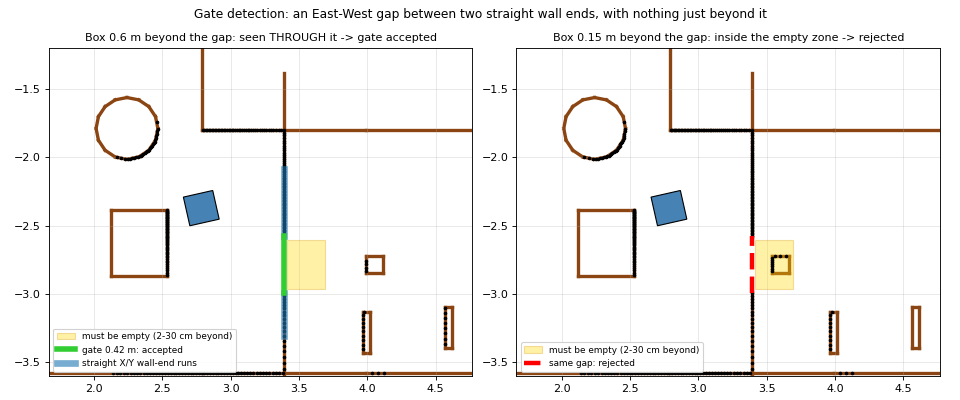
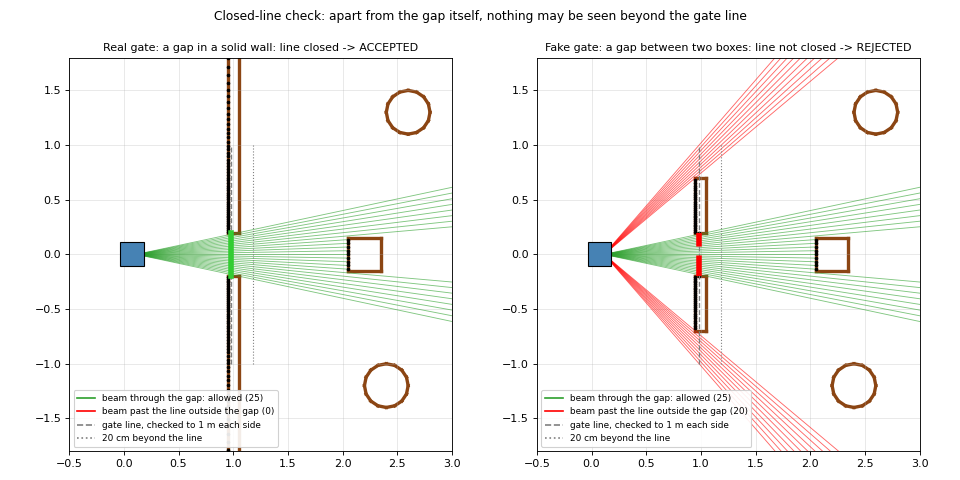
final-cleaning up...

diff --git a/media/fp/make_feature_media.py b/media/fp/make_feature_media.py
@@ -330,69 +330,65 @@ if wanted("heading_layers"):
     ax.text(1.0, 1.35, "north ->", fontsize=9)
     save_png(fig, "heading_layers")
 
-# ---------------------------------------------------------------- 8. gate detection (+ "empty beyond")
+# ---------------------------------------------------------------- 8. gate detection: the closed-line check
 if wanted("gate_detection"):
-    scn = pt.randomised_fp_scenario(2)
-    pt.SWING = True
-    frames = pt.simulate(scn)
-    f = next(f for f in frames if f["corridor"].get("gap_phase") == "APPROACH")
-    x, y, h = f["x"], f["y"], f["h"]
-    base_segs = scn["segments_at"](f["t"])
-    th = h
-    axes = (np.array((math.cos(th), -math.sin(th))), np.array((math.sin(th), math.cos(th))))
-
-    def gate_scan(segs):
-        pts, _ = oc.scan_to_robot_points(pt.raycast_scan(segs, x, y, h, 360))
-        return pts, oc.detect_gaps(pts, math.degrees(h), oc.NORTH_DEG)
-
-    # The real gap (no extra box) gives where "beyond" is
-    _, gaps0 = gate_scan(base_segs)
-    g0 = gaps0[0]
-    ctr_w = to_world([g0["center"]], x, y, h)[0]
-    nrm_w = to_world([g0["center"] + g0["normal"]], x, y, h)[0] - ctr_w
-    tan_w = np.array((-nrm_w[1], nrm_w[0]))
-    a_w, b_w = to_world([g0["a"], g0["b"]], x, y, h)
-
-    fig, axs = plt.subplots(1, 2, figsize=(12, 5.0), dpi=DPI)
+    room = pt.box(1.0, 0.0, 6.0, 6.0)
+    behind = pt.box(2.2, 0.0, 0.3, 0.3) + pt.circle(2.6, 1.3, 0.2) + pt.circle(2.4, -1.2, 0.2)
+    wall = [((0.95, 0.2), (0.95, 3.0)), ((0.95, -0.2), (0.95, -3.0)), ((1.05, 0.2), (1.05, 3.0)), ((1.05, -0.2), (1.05, -3.0)),
+            ((0.95, 0.2), (1.05, 0.2)), ((0.95, -0.2), (1.05, -0.2))]
+    boxes = pt.box(1.0, 0.45, 0.1, 0.5) + pt.box(1.0, -0.45, 0.1, 0.5)
+    lidar = np.array((oc.LASER_X_OFFSET, 0.0))
+    fig, axs = plt.subplots(1, 2, figsize=(12, 6.0), dpi=DPI)
     fig.subplots_adjust(left=0.05, right=0.98, top=0.88, bottom=0.06, wspace=0.1)
-    for ax, depth_box, title in ((axs[0], 0.60, "Box 0.6 m beyond the gap: seen THROUGH it -> gate accepted"),
-                                 (axs[1], 0.15, "Box 0.15 m beyond the gap: inside the empty zone -> rejected")):
-        bc = ctr_w + nrm_w * (depth_box + 0.06)
-        segs = base_segs + pt.box(bc[0], bc[1], 0.12, 0.12)
-        pts, gaps = gate_scan(segs)
+    for ax, segs, title in ((axs[0], room + behind + wall, "Real gate: a gap in a solid wall"),
+                            (axs[1], room + behind + boxes, "Fake gate: a gap between two boxes")):
+        pts, _ = oc.scan_to_robot_points(pt.raycast_scan(segs, 0.0, 0.0, 0.0, 360))
+        found = oc.detect_gaps(pts, 0.0, oc.NORTH_DEG)
+        keep = oc._line_closed
+        oc._line_closed = lambda *a: True
+        candidate = oc.detect_gaps(pts, 0.0, oc.NORTH_DEG)[0]  # what the other checks accept
+        oc._line_closed = keep
+        a, b, ctr = candidate["a"], candidate["b"], candidate["center"]
+        along = (b - a) / np.hypot(*(b - a))
+        normal = np.array((-along[1], along[0]))
+        if (lidar - ctr) @ normal > 0:
+            normal = -normal
         for (px, py), (qx, qy) in segs:
             ax.plot([px, qx], [py, qy], color="saddlebrown", lw=3, zorder=1)
-        wp = to_world(pts, x, y, h)
-        ax.scatter(wp[:, 0], wp[:, 1], s=5, c="k", zorder=3)
-        # The zone that must be empty: between the edges (3 cm in), 2-30 cm beyond the gap line
-        half = g0["width"] / 2.0 - 0.03
-        zone = [ctr_w + tan_w * u + nrm_w * v for u, v in ((-half, 0.02), (half, 0.02), (half, oc.GAP_OPEN_DEPTH), (-half, oc.GAP_OPEN_DEPTH))]
-        ax.add_patch(Polygon(zone, closed=True, fc="gold", ec="goldenrod", alpha=0.35, zorder=2,
-                             label=f"must be empty (2-{oc.GAP_OPEN_DEPTH * 100:.0f} cm beyond)"))
-        found = [g for g in gaps if np.hypot(*(to_world([g["center"]], x, y, h)[0] - ctr_w)) < 0.2]
-        if found:
-            g = found[0]
-            near = oc._bearing_sorted(pts, oc.GAP_DETECT_RANGE)
-            nn = len(near)
-            ext = np.concatenate((near, near, near))
-            ia = next(k for k in range(nn, 2 * nn) if np.allclose(ext[k], g["a"]))
-            jb = next(k for k in range(ia + 1, 3 * nn) if np.allclose(ext[k], g["b"]))
-            for run in (oc._axis_wall_end(ext, ia, -1, axes), oc._axis_wall_end(ext, jb, +1, axes)):
-                rw = to_world(run, x, y, h)
-                ax.plot(rw[:, 0], rw[:, 1], color="tab:blue", lw=6, alpha=0.6, zorder=4)
-            ab = to_world([g["a"], g["b"]], x, y, h)
-            ax.plot(ab[:, 0], ab[:, 1], color="limegreen", lw=5, zorder=5, label=f"gate {g['width']:.2f} m: accepted")
-            ax.plot([], [], color="tab:blue", lw=6, alpha=0.6, label="straight X/Y wall-end runs")
-        else:
-            ax.plot([a_w[0], b_w[0]], [a_w[1], b_w[1]], color="red", lw=4, ls="--", zorder=5, label="same gap: rejected")
-        ax.add_patch(Polygon(pt.footprint(x, y, h), closed=True, fc="steelblue", ec="k", zorder=5))
+        # Beams to points more than GATE_CLOSED_DEPTH beyond the line: where do they cross it?
+        depth = (pts - ctr) @ normal
+        bad = good = 0
+        for p in pts[depth > oc.GATE_CLOSED_DEPTH]:
+            lidar_depth = (lidar - ctr) @ normal
+            fr = lidar_depth / (lidar_depth - (p - ctr) @ normal)
+            u = abs((lidar + fr * (p - lidar) - ctr) @ along)
+            if u <= candidate["width"] / 2 + oc.GATE_CLOSED_EDGE_MARGIN:
+                col, good = "tab:green", good + 1
+            elif u <= oc.GATE_CLOSED_EXTENT:
+                col, bad = "red", bad + 1
+            else:
+                continue
+            ax.plot([lidar[0], p[0]], [lidar[1], p[1]], color=col, lw=0.8, alpha=0.6, zorder=2)
+        ax.scatter(pts[:, 0], pts[:, 1], s=5, c="k", zorder=3)
+        # The gate line, checked out to GATE_CLOSED_EXTENT from the gap centre, and the depth band
+        e0, e1 = ctr - along * oc.GATE_CLOSED_EXTENT, ctr + along * oc.GATE_CLOSED_EXTENT
+        ax.plot([e0[0], e1[0]], [e0[1], e1[1]], color="gray", ls="--", lw=1.2, zorder=3)
+        band = [e0 + normal * oc.GATE_CLOSED_DEPTH, e1 + normal * oc.GATE_CLOSED_DEPTH]
+        ax.plot([band[0][0], band[1][0]], [band[0][1], band[1][1]], color="gray", ls=":", lw=1, zorder=3)
+        ok = bool(found)
+        ax.plot([a[0], b[0]], [a[1], b[1]], color="limegreen" if ok else "red", lw=5, ls="-" if ok else "--", zorder=5)
+        ax.add_patch(Polygon(pt.footprint(0, 0, 0), closed=True, fc="steelblue", ec="k", zorder=5))
+        ax.plot([], [], color="tab:green", label=f"beam through the gap: allowed ({good})")
+        ax.plot([], [], color="red", label=f"beam past the line outside the gap ({bad})")
+        ax.plot([], [], color="gray", ls="--", label=f"gate line, checked to {oc.GATE_CLOSED_EXTENT:.0f} m each side")
+        ax.plot([], [], color="gray", ls=":", label=f"{oc.GATE_CLOSED_DEPTH * 100:.0f} cm beyond the line")
         ax.set_aspect("equal")
-        ax.set_xlim(x - 1.1, x + 2.0)
-        ax.set_ylim(y - 1.3, y + 1.1)
+        ax.set_xlim(-0.5, 3.0)
+        ax.set_ylim(-1.8, 1.8)
         ax.grid(True, alpha=0.3)
-        ax.set_title(title, fontsize=10)
+        ax.set_title(title + (": line closed -> ACCEPTED" if ok else ": line not closed -> REJECTED"), fontsize=10)
         ax.legend(loc="lower left", fontsize=8, framealpha=0.9)
-    fig.suptitle("Gate detection: an East-West gap between two straight wall ends, with nothing just beyond it", fontsize=11)
+    fig.suptitle("Closed-line check: apart from the gap itself, nothing may be seen beyond the gate line", fontsize=11)
     save_png(fig, "gate_detection")
 
 # ---------------------------------------------------------------- 9. gate manoeuvre (clip)

diff --git a/FP.md b/FP.md
@@ -260,7 +260,7 @@ The gate is a gap between the ends of two long, straight walls, with the gap run
 
 ![Gate detection](media/fp/features/gate_detection.png)
 
-*The same gate with one box added beyond it. Left: the box is 0.6 m beyond the gap, so its points are seen through the opening (allowed, check 4); the gap (green) sits between two straight, axis-aligned wall ends (blue) and is accepted. Right: the box is 0.15 m beyond, inside the zone that must be empty (gold, check 7), so the same gap is rejected.*
+*Closed-line check (check 6). Both openings are 0.4 m wide, run East–West and have straight wall ends, so they pass the other checks. Left: the gap is in a solid wall, so the only beams that reach beyond the gate line pass through the gap (green): accepted. Right: the gap is between two boxes, and beams pass beside the boxes, crossing the line outside the gap within 1 m of its centre (red): the line is not a wall, so it is rejected. With this one check switched off, the two boxes would be taken as the gate.*
 
 
 **Front or back.** The caller decides this by where the gap centre is, not by which way the robot faces. Let *past* = (robot position − gap centre) · north.
